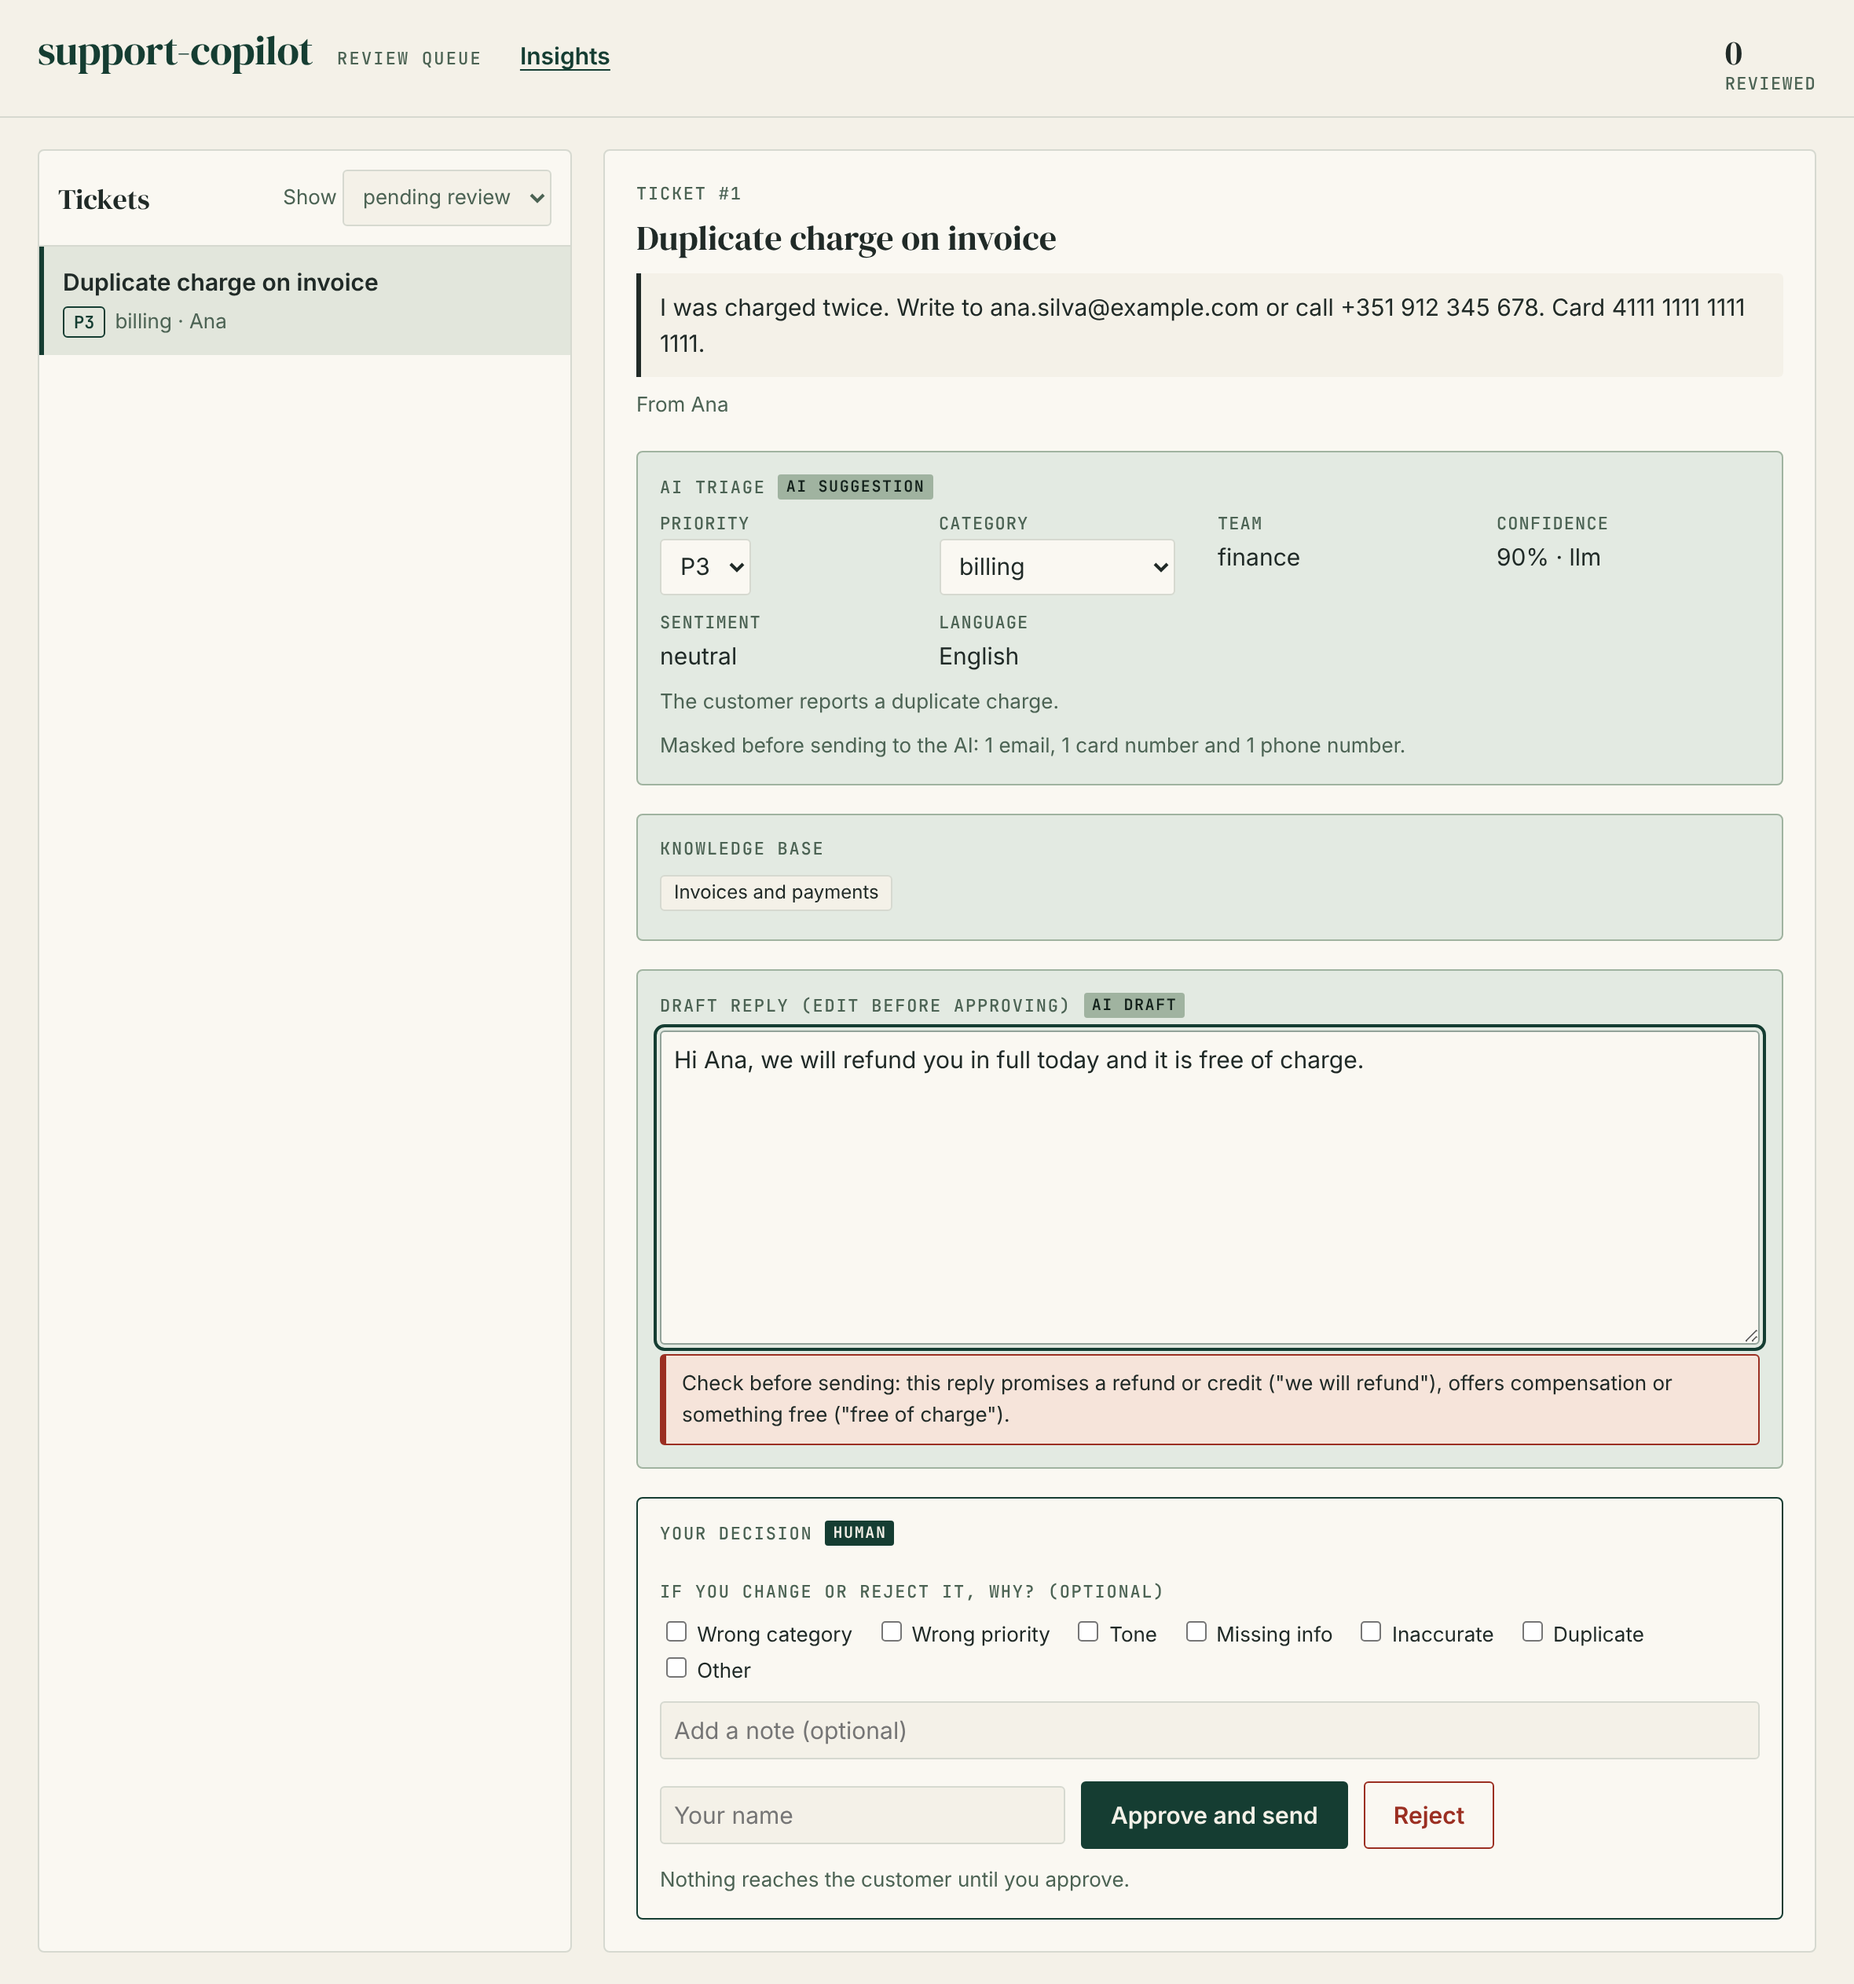
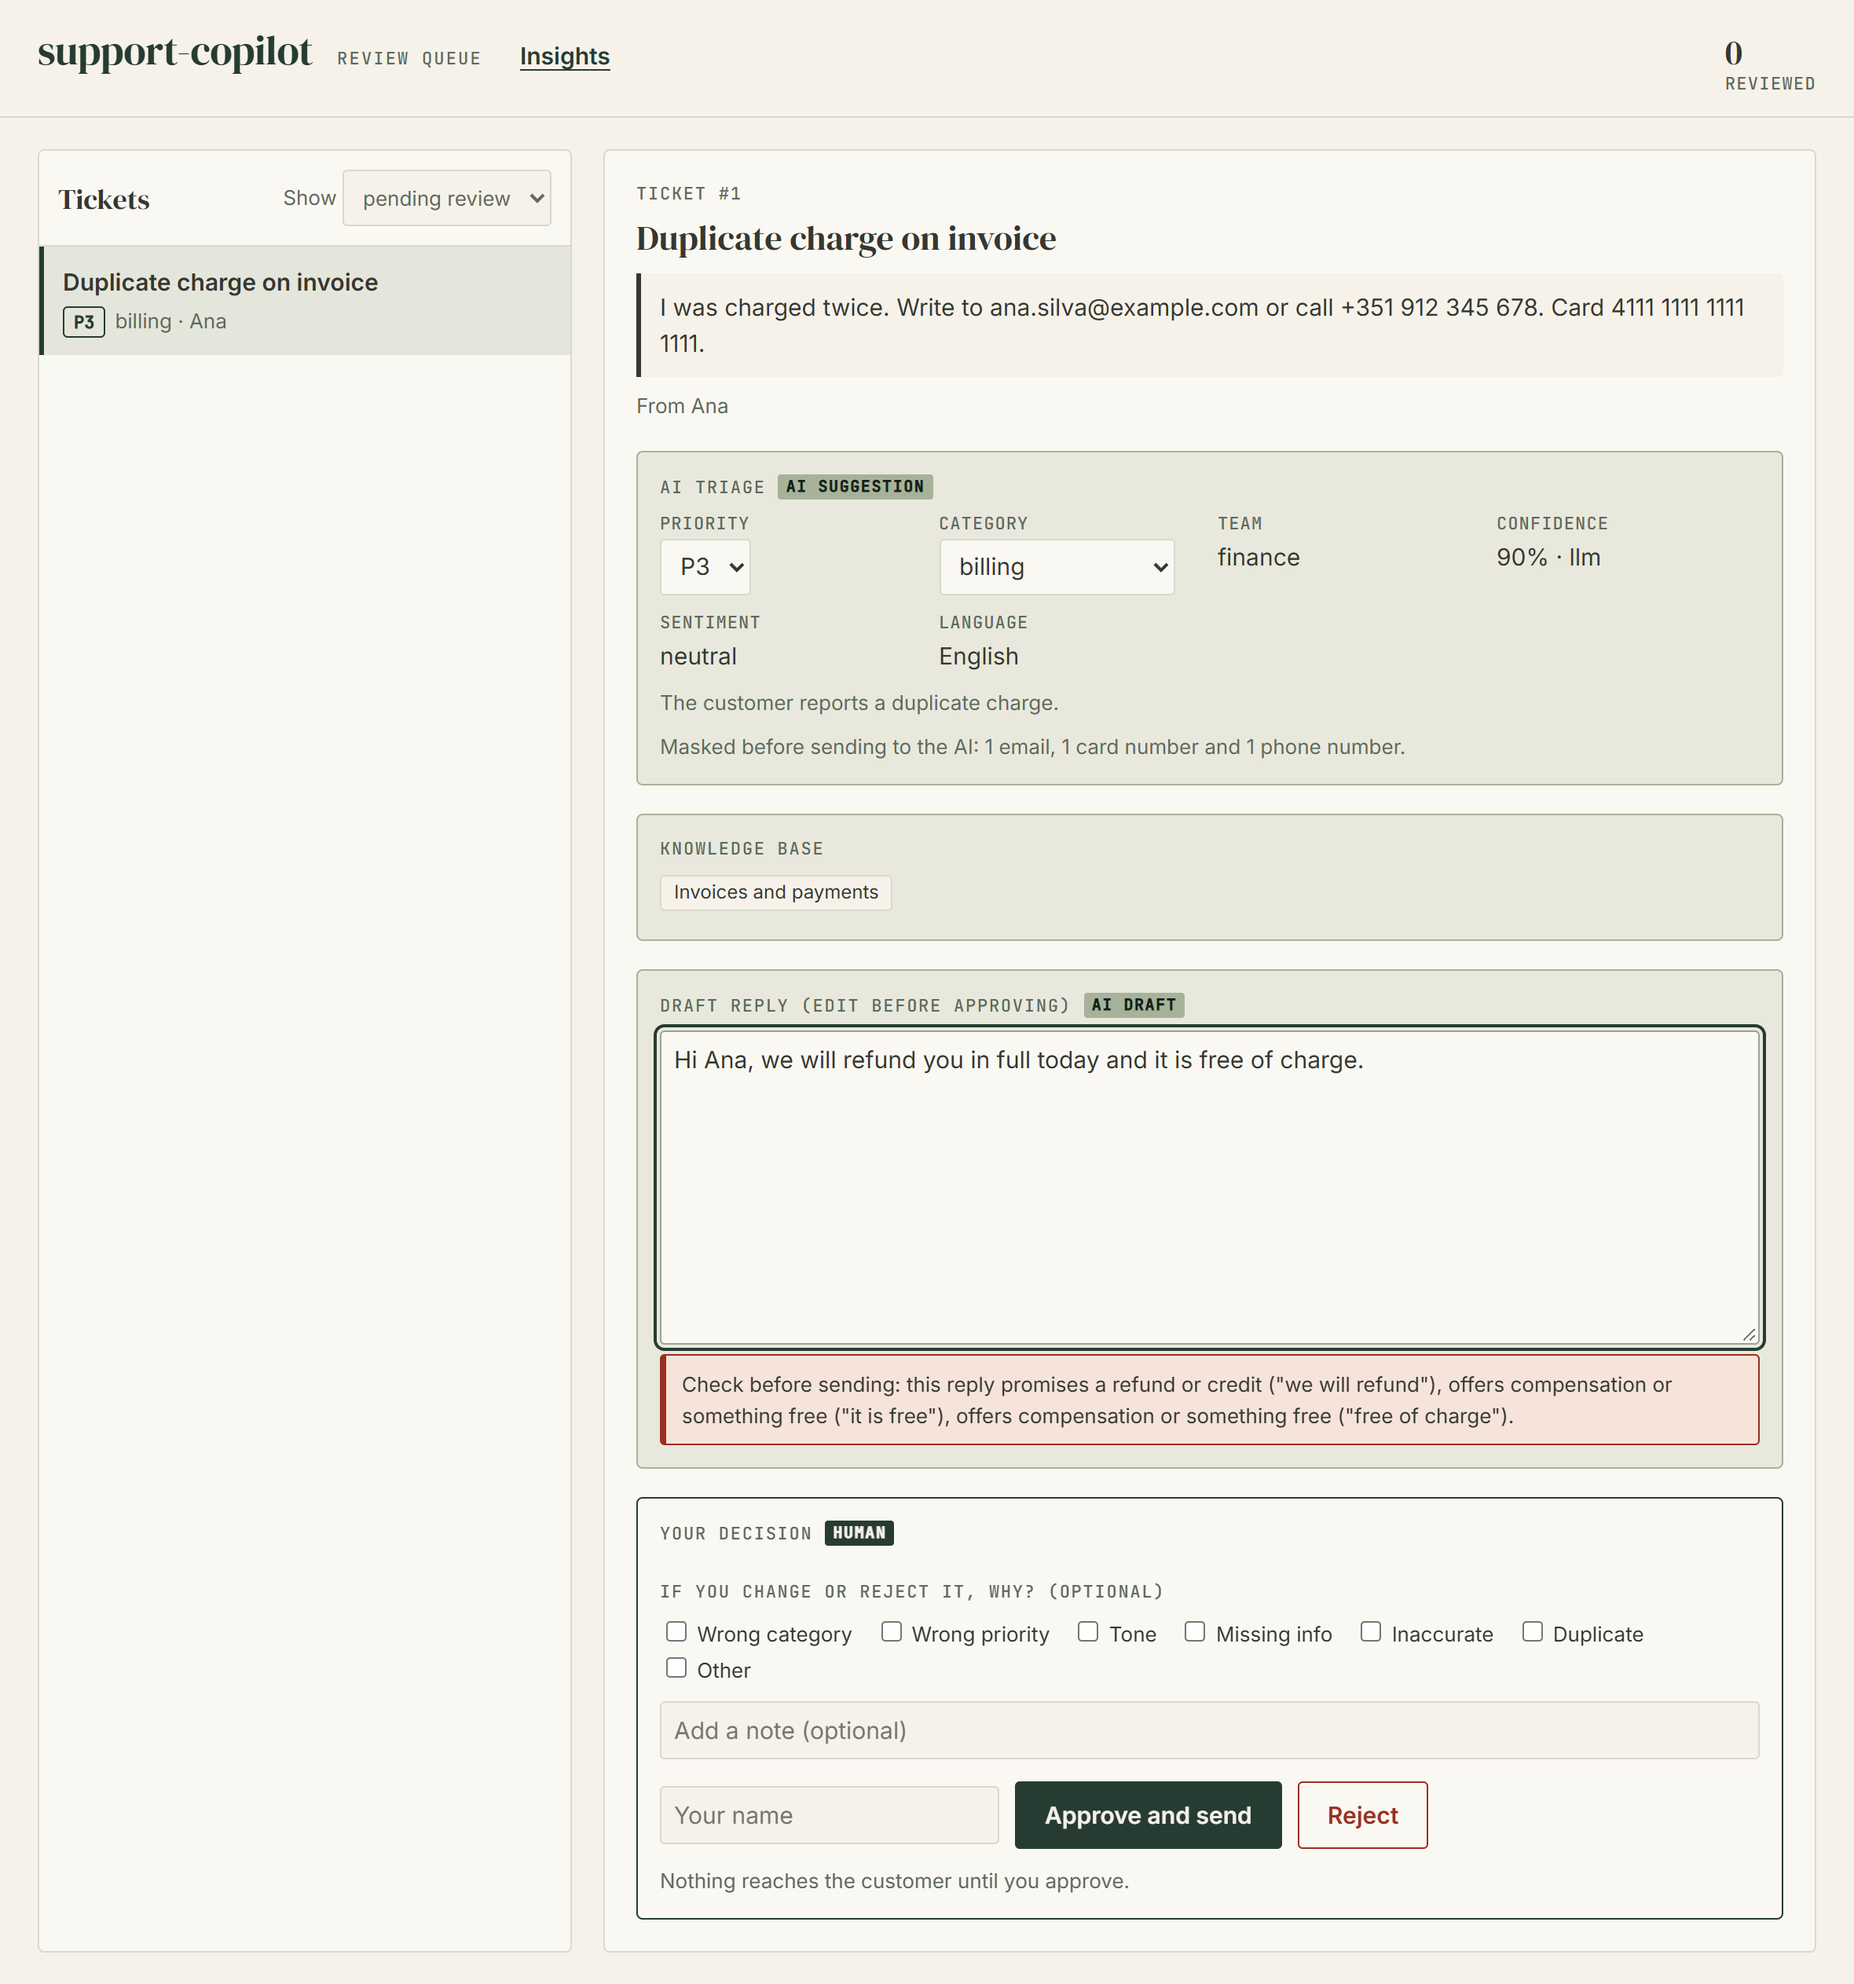
Align the review page and all images with the Brand Kit palette
- Review page colour tokens now use the kit's exact values (forest #263C32,
  cream #F6F2E9, sage #A8B29A, charcoal #353832, and the kit's muted, line,
  border and step colours). The UI contrast tests still pass.
- architecture.png is regenerated from the Brand Kit diagram generator.
- The eight review-page screenshots and social-preview.png are retaken from
  the running page with synthetic data (guardrails.png uses a stub model).

diff --git a/support_copilot/static/index.html b/support_copilot/static/index.html
@@ -15,18 +15,18 @@
 @font-face { font-family: "JetBrains Mono"; font-weight: 500; font-display: swap; src: url("/static/fonts/jetbrains-mono-latin-500-normal.woff2") format("woff2"); }
 :root {
   /* Colour tokens. Rust and ochre are semantic only (warnings); --muted is dark enough for small text (AA). */
-  --cream: #F4F1E8; --sage: #A0B3A0; --forest: #153D32; --charcoal: #202A27; --muted-green: #6F8876;
-  --bg: var(--cream); --panel: #FAF8F2; --ink: var(--charcoal); --muted: #4C6354; --line: #D6D9D0;
-  --accent: var(--forest); --accent-ink: var(--cream); --ai-bg: #E3EAE2; --ai-line: var(--sage);
+  --cream: #F6F2E9; --sage: #A8B29A; --forest: #263C32; --charcoal: #353832; --muted-green: #7F8F78;
+  --bg: var(--cream); --panel: #FAF8F2; --ink: var(--charcoal); --muted: #5E6A60; --line: #D9D9CD;
+  --accent: var(--forest); --accent-ink: var(--cream); --ai-bg: #E8E9DC; --ai-line: var(--sage);
   --ok: var(--forest); --bad: #9B2F22; --bad-bg: #F6E4DA; --warn: #8A5A12; --warn-bg: #F3E8D2;
-  --p1: #9B2F22; --p2: #8A5A12; --p3: var(--forest); --p4: #4C6354; --focus: var(--forest);
+  --p1: #9B2F22; --p2: #8A5A12; --p3: var(--forest); --p4: #5E6A60; --focus: var(--forest);
   --serif: "DM Serif Display", "Cormorant Garamond", Georgia, serif;
   --sans: Inter, "DM Sans", system-ui, -apple-system, "Segoe UI", sans-serif;
   --mono: "JetBrains Mono", ui-monospace, "SF Mono", Menlo, Consolas, monospace;
 }
 @media (prefers-color-scheme: dark) {
   :root:not([data-theme="light"]) {
-    --bg: #121A16; --panel: #19231E; --ink: #F4F1E8; --muted: #A9B8AA; --line: #2B3A32;
+    --bg: #121A16; --panel: #19231E; --ink: #F6F2E9; --muted: #A9B8AA; --line: #2B3A32;
     --accent: var(--sage); --accent-ink: #12201A; --ai-bg: #1F2B25; --ai-line: #4A5E50;
     --ok: var(--sage); --bad: #F0907F; --bad-bg: #2A1D19; --warn: #E0B060; --warn-bg: #2B2518;
     --p1: #F0907F; --p2: #E0B060; --p3: var(--sage); --p4: #A9B8AA; --focus: var(--sage);
